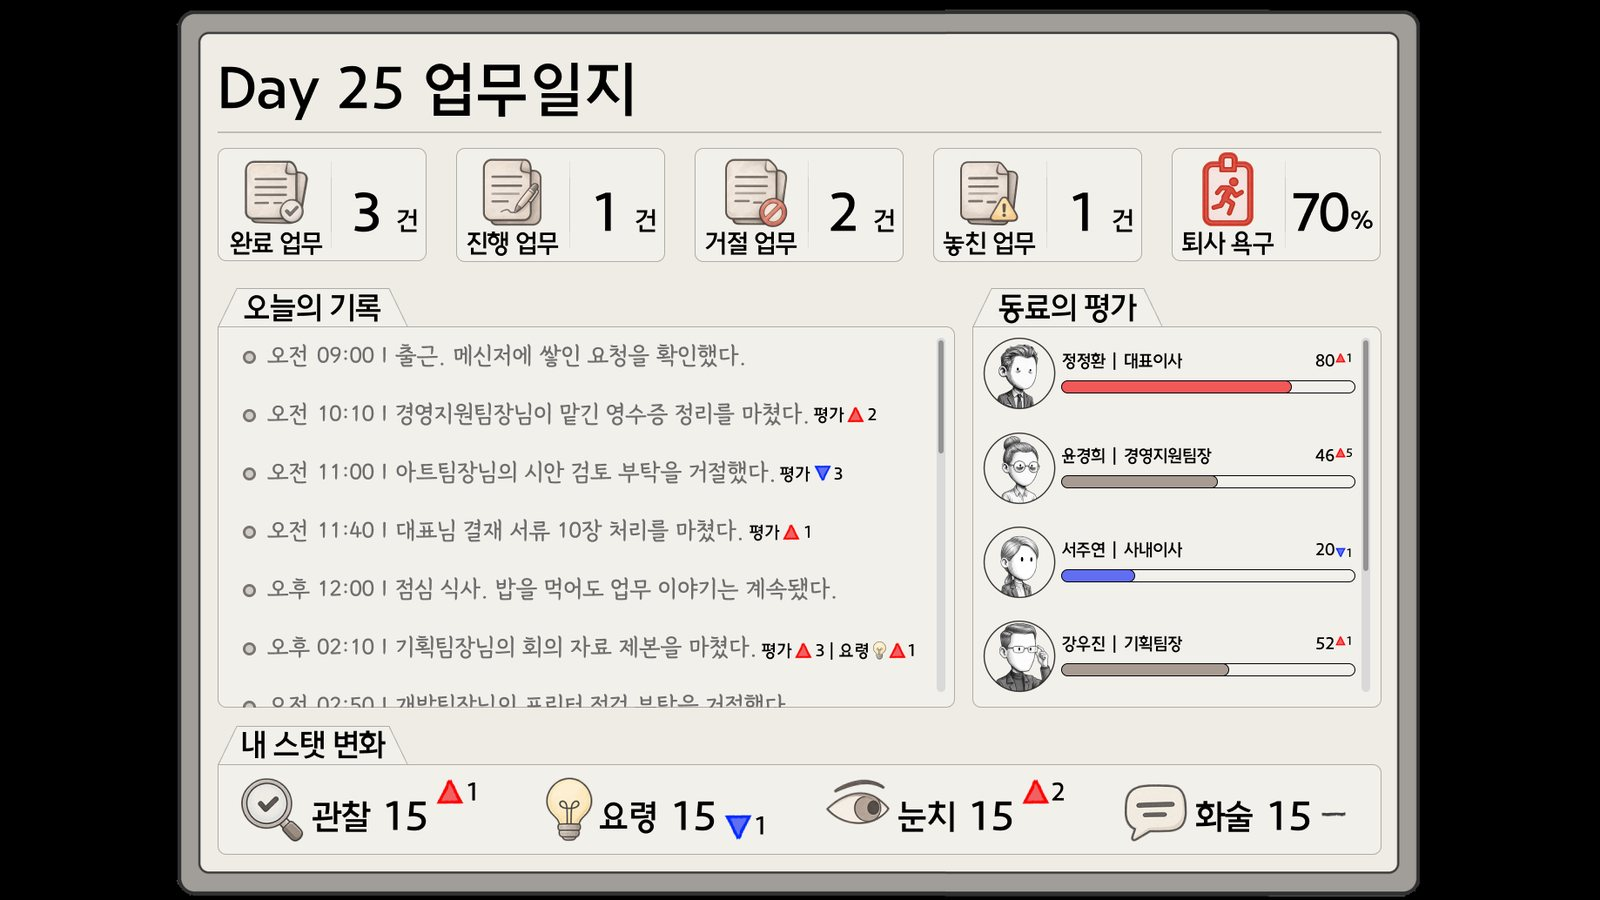
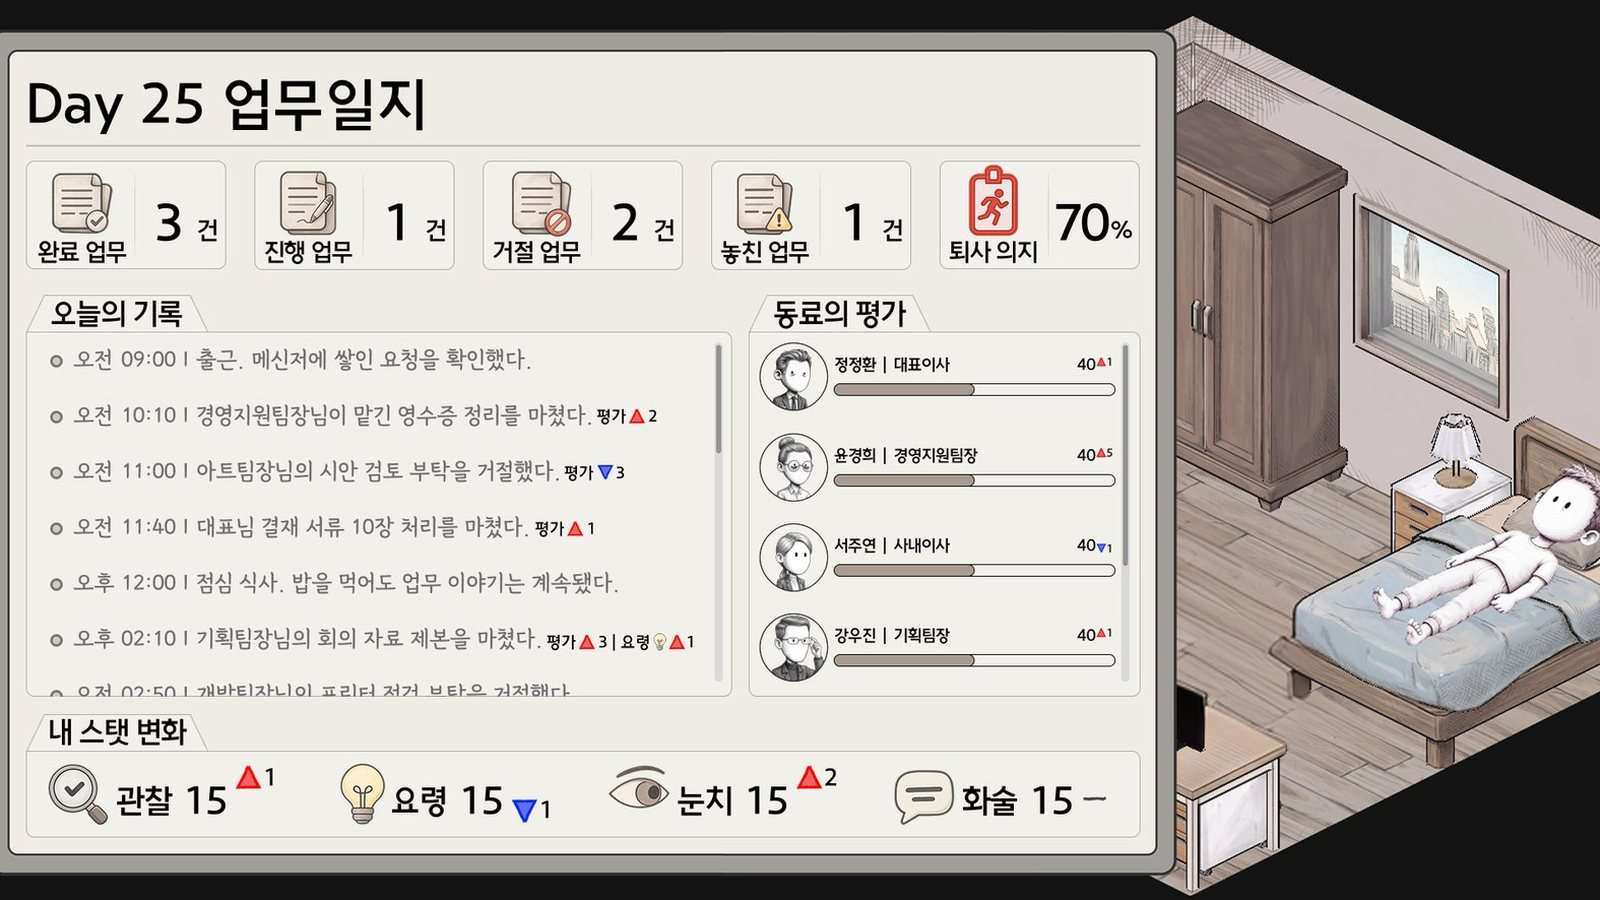
출근 페이지를 4단계 발표·안내자료와 회의 기록에 맞춰 정정
- 슬라이더를 현 빌드 '하루 네 장면'(출근·업무 요청·마감 회의·업무일지)으로 교체
  (1단계 목업·3단계 타이밍 액션 화면을 현 빌드로 잘못 썼던 3장 제거)
- 사이드바: 하이 컨셉 블러브, 담당(데이터 구조·플레이 흐름 설계·밸런싱), 태그 정정
- 개발 노트: 30일→26일차, 엔딩 구조(회사 이해도→퇴사 욕구→정규직 전환 제안/사직·퇴사)
  와 스탯 4종(화술·눈치·요령·관찰) 반영, 튜토리얼·1일차 흐름 설계(문제 해결 C) 추가

Claude-Session: https://claude.ai/code/session_01MygmzMah3XkskLtMhAwum2

diff --git a/index.html b/index.html
@@ -2430,7 +2430,7 @@ img {
           </div>
           <div class="project-link-card__caption">
             <div class="project-link-card__title">출근</div>
-            <div class="project-link-card__meta">오피스 시뮬레이션 · 시나리오 데이터 구조/이벤트 조건 기획</div>
+            <div class="project-link-card__meta">오피스 시뮬레이션 · 데이터 구조/플레이 흐름 기획</div>
           </div>
         </button>
       </div>
@@ -3441,36 +3441,36 @@ img {
       <div class="hero-band__pair">
         <div class="media-slider" data-slider>
           <div class="media-slider__frame">
-            <!-- 4단계 선정평가 인게임 스크린샷 — 발표자료에서 추출, 레터박스를 잘라 16:9로 크롭 (썸네일 4장 = 한 줄에 꽉 참) -->
+            <!-- 4단계 평가 빌드(현 빌드) 인게임 스크린샷 — 발표자료의 '하루 네 장면' 순서: 출근 → 업무·요청 → 마감 회의 → 업무일지 -->
             <div class="media-slider__slide media-slider__slide--active" data-slide="0">
-              <img data-img-src="attendance/출근_인게임_01_업무콤보.jpg" alt="업무 처리 중 타이밍 판정 콤보 화면">
-              <div class="media-slider__caption">업무 처리 — 타이밍 판정을 이어 갈수록 처리 속도가 빨라진다</div>
+              <img data-img-src="attendance/출근_인게임_01_출근수단.jpg" alt="출근 수단을 고르는 선택지 화면">
+              <div class="media-slider__caption">출근 — 택시냐 버스냐, 첫 선택부터 돈과 상태가 갈린다</div>
             </div>
             <div class="media-slider__slide" data-slide="1">
-              <img data-img-src="attendance/출근_인게임_02_업무선택지.jpg" alt="업무 진행 중 선택지 화면">
-              <div class="media-slider__caption">업무 중 선택지 — 고른 방식에 따라 진행도·스탯·평판이 갈린다</div>
+              <img data-img-src="attendance/출근_인게임_02_업무요청.jpg" alt="업무 리포트를 진행하는 화면">
+              <div class="media-slider__caption">업무·요청 대응 — 수락한 업무는 자리에 앉으면 자동으로 진행된다</div>
             </div>
             <div class="media-slider__slide" data-slide="2">
-              <img data-img-src="attendance/출근_인게임_04_탐색선택.jpg" alt="3D 사무실 탐색 중 동료와의 선택지 장면">
-              <div class="media-slider__caption">퇴근 10분 전 — 3D 사무실을 돌아다니다 마주치는 상황별 선택</div>
+              <img data-img-src="attendance/출근_인게임_05_마감회의.jpg" alt="마감 회의 화면">
+              <div class="media-slider__caption">마감 회의 — 매주 금요일, 지지·중재·비판 가운데 하나를 고른다</div>
             </div>
             <div class="media-slider__slide" data-slide="3">
-              <img data-img-src="attendance/출근_인게임_05_마감회의.jpg" alt="마감회의 화면">
-              <div class="media-slider__caption">마감회의 — 그날의 결과를 평가받는 자리</div>
+              <img data-img-src="attendance/출근_인게임_06_업무일지.jpg" alt="업무일지 화면">
+              <div class="media-slider__caption">업무일지 — 그날의 결과와 동료의 평가가 기록된다</div>
             </div>
           </div>
           <div class="media-slider__thumbs">
             <button class="media-slider__thumb media-slider__thumb--active" data-thumb="0" aria-label="슬라이드 1">
-              <img data-img-src="attendance/출근_인게임_01_업무콤보.jpg" alt="">
+              <img data-img-src="attendance/출근_인게임_01_출근수단.jpg" alt="">
             </button>
             <button class="media-slider__thumb" data-thumb="1" aria-label="슬라이드 2">
-              <img data-img-src="attendance/출근_인게임_02_업무선택지.jpg" alt="">
+              <img data-img-src="attendance/출근_인게임_02_업무요청.jpg" alt="">
             </button>
             <button class="media-slider__thumb" data-thumb="2" aria-label="슬라이드 3">
-              <img data-img-src="attendance/출근_인게임_04_탐색선택.jpg" alt="">
+              <img data-img-src="attendance/출근_인게임_05_마감회의.jpg" alt="">
             </button>
             <button class="media-slider__thumb" data-thumb="3" aria-label="슬라이드 4">
-              <img data-img-src="attendance/출근_인게임_05_마감회의.jpg" alt="">
+              <img data-img-src="attendance/출근_인게임_06_업무일지.jpg" alt="">
             </button>
           </div>
         </div>
@@ -3482,8 +3482,8 @@ img {
           </div>
           <p class="info-sidebar__blurb">
             한국콘텐츠진흥원 <span class="kw">2026 코리아 인디게임 데브캠프</span> 4단계 선정평가에 오른
-            주식회사 젠에픽의 오피스 시뮬레이션입니다. 조건·시퀀스·대사 테이블 위에서
-            30일간의 업무 선택과 평판이 엔딩으로 이어지도록 데이터를 설계하고 있습니다.
+            주식회사 젠에픽의 오피스 시뮬레이션입니다. 쉬었음 청년이 신입사원이 되어 업무와 동료의 부탁 사이에서
+            무엇을 먼저 할지 고르고, 그 선택이 관계와 엔딩을 바꿉니다.
           </p>
           <div class="info-sidebar__meta">
             <span class="info-sidebar__meta-label">장르:</span>
@@ -3491,7 +3491,7 @@ img {
             <span class="info-sidebar__meta-label">개발 인원:</span>
             <span class="info-sidebar__meta-value">주식회사 젠에픽 (기획 3 / 개발 1)</span>
             <span class="info-sidebar__meta-label">담당:</span>
-            <span class="info-sidebar__meta-value">시나리오 데이터 구조 · 이벤트 조건 · 업무 밸런싱</span>
+            <span class="info-sidebar__meta-value">데이터 구조 · 플레이 흐름 설계 · 밸런싱</span>
             <span class="info-sidebar__meta-label">개발 기간:</span>
             <span class="info-sidebar__meta-value">2026.08 ~ 현재 (참여 중)</span>
             <span class="info-sidebar__meta-label">툴:</span>
@@ -3504,8 +3504,8 @@ img {
             <div class="info-sidebar__tags">
               <span class="tag-pill">오피스 시뮬레이션</span>
               <span class="tag-pill">데이터 구조 설계</span>
-              <span class="tag-pill">조건 테이블</span>
-              <span class="tag-pill">데이터 검증</span>
+              <span class="tag-pill">시퀀스 테이블</span>
+              <span class="tag-pill">플레이 흐름 설계</span>
               <span class="tag-pill">업무 밸런싱</span>
               <span class="tag-pill">멀티엔딩</span>
             </div>
@@ -3550,48 +3550,46 @@ img {
         <h2 class="section-header__title">개발 노트</h2>
       </div>
       <div class="devnote__list">
-
-        <!-- STEP 01. 역할과 목표 (이미지 왼쪽) -->
+        <!-- STEP 01. 역할과 목표 (이미지 왼쪽) — 발표자료 팀 구성상 직무: 데이터구조 -->
         <article class="about-item">
           <div class="about-item__media about-item__media--contain">
-            <img data-img-src="attendance/출근_구조_01_3테이블_역할분리.png" alt="주간·일일 상위 흐름">
+            <img data-img-src="attendance/출근_구조_01_3테이블_역할분리.png" alt="조건·시퀀스·대사 3테이블 역할 분리">
           </div>
           <div class="about-item__text">
             <div class="devnote-step">STEP 01 · 역할과 목표</div>
-            <h3 class="about-item__heading">대사가 아니라, 대사가 나올 조건을 설계하는 일</h3>
+            <h3 class="about-item__heading">데이터 구조 담당에서 플레이 흐름 설계까지</h3>
             <div class="devnote-roles">
               <span class="devnote-role">데이터 구조 설계</span>
-              <span class="devnote-role">이벤트 조건 설계</span>
-              <span class="devnote-role">시나리오</span>
-              <span class="devnote-role">업무 밸런싱</span>
+              <span class="devnote-role">시퀀스 테이블</span>
+              <span class="devnote-role">플레이 흐름 설계</span>
+              <span class="devnote-role">밸런싱</span>
             </div>
             <p class="devnote-goal">
-              대사를 쓰는 작업이 아니라, 어떤 대사가 언제 어떤 조건으로 출력될지를 규정하는
-              <span class="kw">데이터 구조</span>를 세우는 작업이었습니다.
-              액션 20종과 UID 명명 규칙, 조건식 문법을 먼저 정의하고,
-              그 규격 위에 <span class="kw">시퀀스 2만여 행</span>을 쌓아 6주·30일 분량의 하루 루프를 구성했습니다.
-              4단계 빌드에서는 튜토리얼과 1일차 오전, 30일차 오후 업무까지 맡았습니다.
+              팀에서 맡은 직무는 <span class="kw">데이터 구조</span>입니다.
+              3단계 빌드까지는 액션·식별자 규칙과 조건식 문법을 정하고 시퀀스·조건·대사 테이블을 쌓았습니다.
+              메인 시스템이 업무·메신저 중심으로 바뀐 4단계 빌드에서는 플레이어 스탯 설계,
+              0일차 튜토리얼과 1일차 오전의 흐름 설계, 26일차 오후 밸런싱까지 맡았습니다.
             </p>
           </div>
         </article>
 
-        <!-- STEP 02. 디자인 포인트 (이미지 오른쪽) — 인게임 업무일지로 평판·스탯 누적을 보여 줌 -->
+        <!-- STEP 02. 디자인 포인트 (이미지 오른쪽) — 현 빌드 업무 처리 + 메신저 화면 -->
         <article class="about-item about-item--reverse">
           <div class="about-item__media about-item__media--contain">
-            <img data-img-src="attendance/출근_인게임_06_업무일지.jpg" alt="Day 25 업무일지 화면">
+            <img data-img-src="attendance/출근_인게임_07_업무메신저.jpg" alt="업무를 진행하며 메신저로 팀장과 대화하는 화면">
           </div>
           <div class="about-item__text">
             <div class="devnote-step">STEP 02 · 디자인 포인트</div>
             <h3 class="about-item__heading">이 게임의 핵심 재미</h3>
             <ul class="devnote-points">
-              <li><strong>뭘 받고 뭘 안 할지 고르는 눈치</strong><span class="devnote-point__desc">업무는 메신저로 들어오고, 답이 늦으면 자동으로 거절된다. 남은 정신력과 마감을 보고 받을 일과 넘길 일을 고르는 판단 자체가 플레이가 되도록 설계</span></li>
-              <li><strong>관측과 비용이 있어야 움직이는 평판</strong><span class="devnote-point__desc">대답 한 줄로는 호감이 오르지 않는다. 상대가 그 선택을 눈앞에서 봤는가, 그 선택이 무언가를 걸었는가 — 두 조건을 모두 만족할 때만 수치가 변한다</span></li>
-              <li><strong>30일이 그대로 엔딩으로 수렴하는 구조</strong><span class="devnote-point__desc">경영진 평판은 엔딩 등급, 파트별 평판은 배치와 후일담, 특정 시퀀스 완료는 특별 엔딩으로 이어진다. 마지막에 몰아서 정하지 않고 매일의 선택이 누적되도록 설계</span></li>
+              <li><strong>뭘 받고 뭘 안 할지 고르는 눈치</strong><span class="devnote-point__desc">업무와 부탁은 메신저로 들어오고, 답이 늦으면 자동으로 거절된다. 남은 상태와 마감을 보고 받을 일과 넘길 일을 고르는 판단 자체가 플레이가 되도록 설계</span></li>
+              <li><strong>숨겨진 선택지를 여는 네 가지 스탯</strong><span class="devnote-point__desc">화술·눈치·요령·관찰은 수치를 바꾸는 대신 새 선택지를 연다. 같은 계위의 단어로 맞추고, 다회차에서 쌓을수록 고를 수 있는 길이 넓어지도록 정의</span></li>
+              <li><strong>회사 이해도가 퇴사 욕구로 바뀌는 순간</strong><span class="devnote-point__desc">회사 이해도가 100이 되면 퇴사 욕구가 켜지고, 퇴사 욕구가 100에 닿으면 그동안의 평가에 따라 정규직 전환 제안 계열과 사직·퇴사 계열 엔딩으로 갈린다</span></li>
             </ul>
           </div>
         </article>
 
-        <!-- STEP 03-A. 문제 해결 — 분기 구조 (이미지 왼쪽) -->
+        <!-- STEP 03-A. 문제 해결 — 분기 구조 (이미지 왼쪽) — 3단계 빌드 시기 작업 -->
         <article class="about-item">
           <div class="about-item__media about-item__media--contain">
             <img data-img-src="attendance/출근_구조_03_이어받기_패턴.png" alt="조건 테이블 이어받기 패턴">
@@ -3622,14 +3620,14 @@ img {
                 <p class="devnote-trouble__text">
                   본편을 복제하지 않고 3개 경로 분기를 확보했습니다.
                   이 패턴은 이후 과거 선택을 참조해야 하는 모든 구간의 표준 방식으로 정착했고,
-                  동일 구조를 쓰는 다른 이벤트에도 그대로 재사용하고 있습니다.
+                  동일 구조를 쓰는 다른 이벤트에도 그대로 재사용했습니다.
                 </p>
               </div>
             </div>
           </div>
         </article>
 
-        <!-- STEP 03-B. 문제 해결 — 데이터 마이그레이션 (이미지 오른쪽) -->
+        <!-- STEP 03-B. 문제 해결 — 데이터 마이그레이션 (이미지 오른쪽) — 3단계 빌드 시기 작업 -->
         <!-- 이미지 미확보: 검증 스크립트 실행 결과 콘솔 캡처 필요 -->
         <article class="about-item about-item--reverse">
           <div class="about-item__media about-item__media--contain">
@@ -3668,21 +3666,55 @@ img {
           </div>
         </article>
 
-        <!-- STEP 03-C. 문제 해결 — 업무 밸런싱 (이미지 왼쪽) — 4단계 빌드 작업 -->
+        <!-- STEP 03-C. 문제 해결 — 튜토리얼·1일차 흐름 (이미지 왼쪽) — 4단계 빌드 작업 -->
         <article class="about-item">
           <div class="about-item__media about-item__media--contain">
-            <img data-img-src="attendance/출근_밸런스목업_v13.jpg" alt="30일차 오후 플레이 목업 화면">
+            <img data-img-src="attendance/출근_튜토리얼_프로토타입.jpg" alt="0일차 튜토리얼 흐름 프로토타입 화면">
           </div>
           <div class="about-item__text">
             <div class="devnote-step">STEP 03 · 문제 해결 C</div>
+            <h3 class="about-item__heading">5분 튜토리얼 안에 새 업무 시스템을 가르치기</h3>
+            <div class="devnote-trouble">
+              <div class="devnote-trouble__row">
+                <span class="devnote-trouble__label devnote-trouble__label--problem">문제</span>
+                <p class="devnote-trouble__text">
+                  메인 시스템이 바뀌면서 기존 집 튜토리얼이 새 업무 방식과 맞지 않게 됐습니다.
+                  면접까지 약 5분 안에 업무 진행, 체력·정신력, 스탯의 존재를 모두 익히게 해야 했습니다.
+                </p>
+              </div>
+              <div class="devnote-trouble__row">
+                <span class="devnote-trouble__label devnote-trouble__label--solution">해결</span>
+                <p class="devnote-trouble__text">
+                  자기소개서 작성을 <span class="kw">첫 업무</span>로 바꿔, 문항마다 고른 방식에 따라 진행도와 정신력이 변하고
+                  정신력이 바닥나면 잠든 뒤 다음 날 마저 쓰게 했습니다. 면접 질문의 답으로 화술·눈치를 배분하고,
+                  1일차 오전에는 면접에서 누구 편을 들었는지에 따라 업무와 부탁을 주는 사람이 바뀌도록 짰습니다.
+                </p>
+              </div>
+              <div class="devnote-trouble__row">
+                <span class="devnote-trouble__label devnote-trouble__label--result">결과</span>
+                <p class="devnote-trouble__text">
+                  흐름을 HTML 프로토타입으로 먼저 보여 주고 PM·개발자와 합의한 뒤 시퀀스 테이블로 옮겨
+                  4단계 평가 빌드에 반영했습니다. 어떤 선택을 해도 벌칙이 아니라 준비된 다른 길로 느껴지도록 피드백을 맞췄습니다.
+                </p>
+              </div>
+            </div>
+          </div>
+        </article>
+
+        <!-- STEP 03-D. 문제 해결 — 업무 밸런싱 (이미지 오른쪽) — 4단계 빌드 작업 -->
+        <article class="about-item about-item--reverse">
+          <div class="about-item__media about-item__media--contain">
+            <img data-img-src="attendance/출근_밸런스목업_v13.jpg" alt="26일차 오후 플레이 목업 화면">
+          </div>
+          <div class="about-item__text">
+            <div class="devnote-step">STEP 03 · 문제 해결 D</div>
             <h3 class="about-item__heading">표로는 보이지 않는 난이도를 플레이로 재기</h3>
             <div class="devnote-trouble">
               <div class="devnote-trouble__row">
                 <span class="devnote-trouble__label devnote-trouble__label--problem">문제</span>
                 <p class="devnote-trouble__text">
-                  30일차 오후는 업무 요청·마감·정신력·퇴사 욕구가 동시에 움직이는 구간이라,
-                  수치표만으로는 실제로 얼마나 버거운지 알 수 없었습니다.
-                  리뷰에서도 업무와 미니게임이 너무 많고 정보가 과하다는 지적이 나왔습니다.
+                  평가 빌드의 마지막 구간인 26일차 오후는 업무 요청·마감·정신력·퇴사 욕구가 동시에 움직여,
+                  수치표만으로는 실제로 얼마나 버거운지 알 수 없었습니다. PM 리뷰에서도 업무와 미니게임이 너무 많다는 지적이 나왔습니다.
                 </p>
               </div>
               <div class="devnote-trouble__row">
@@ -3696,16 +3728,16 @@ img {
               <div class="devnote-trouble__row">
                 <span class="devnote-trouble__label devnote-trouble__label--result">결과</span>
                 <p class="devnote-trouble__text">
-                  승진·버팀·퇴사 비율이 목표치와 어디서 어긋나는지 숫자로 보여 줄 수 있게 됐고,
-                  오후 업무를 팀별 6종·미니게임 2개 규모로 줄이는 결정의 근거로 쓰였습니다.
+                  결말 비율이 목표치와 어디서 어긋나는지 숫자로 보여 줄 수 있게 됐고,
+                  26일차 오후의 업무·미니게임 구성을 줄여 다시 짜는 근거로 쓰였습니다.
                 </p>
               </div>
             </div>
           </div>
         </article>
 
-        <!-- STEP 04. 결과 정리 (이미지 오른쪽) -->
-        <article class="about-item about-item--reverse">
+        <!-- STEP 04. 결과 정리 (이미지 왼쪽) -->
+        <article class="about-item">
           <div class="about-item__media about-item__media--contain">
             <img data-img-src="attendance/출근_구조_02_하루루프_판정시점.png" alt="하루 루프 판정 시점">
           </div>
@@ -3714,10 +3746,11 @@ img {
             <h3 class="about-item__heading">작업 산출물</h3>
             <ul class="devnote-results">
               <li><strong>데이터 규격서</strong>액션별 파라미터 슬롯 대응표·식별자 명명 규칙·조건식 문법·수치 증감 규정을 단일 정본으로 정립</li>
-              <li><strong>3종 데이터 테이블</strong>시퀀스 2만여 행 / 조건 2천여 행 / 대사 1만여 행을 정합성 검증 통과 상태로 유지</li>
+              <li><strong>3종 데이터 테이블</strong>3단계 빌드 기준 시퀀스 2만여 행 / 조건 2천여 행 / 대사 1만여 행을 정합성 검증 통과 상태로 유지</li>
               <li><strong>정합성 검사 도구</strong>식별자·참조·조건식·짝 맞춤·표기·실행 재현 6개 분류의 자동 검사</li>
-              <li><strong>4단계 빌드 시퀀스</strong>튜토리얼·1일차 오전(업무 요청·미니게임 분기) 설계·작성·정적 검수, 30일차 오후 업무 6종 초안</li>
-              <li><strong>밸런스 검증 목업</strong>기준 플레이어 6종 자동 플레이로 결말 분포를 재는 브라우저 목업</li>
+              <li><strong>플레이어 스탯 4종</strong>화술·눈치·요령·관찰의 정의와 계위 검토, 변수 이름까지 확정</li>
+              <li><strong>4단계 빌드 시퀀스</strong>0일차 튜토리얼·1일차 오전 설계·작성·정적 검수, 26일차 오후 업무 초안과 퇴사 면담 엔딩 시퀀스</li>
+              <li><strong>프로토타입·목업</strong>튜토리얼 흐름 프로토타입, 26일차 오후 밸런스 목업</li>
             </ul>
             <div class="devnote-reflect">
               <strong>배운 점.</strong> 수치를 넣은 뒤에는 반드시 모든 종단 경로를 따라가며 누적값을 검산해야 한다는 것을 배웠습니다.
